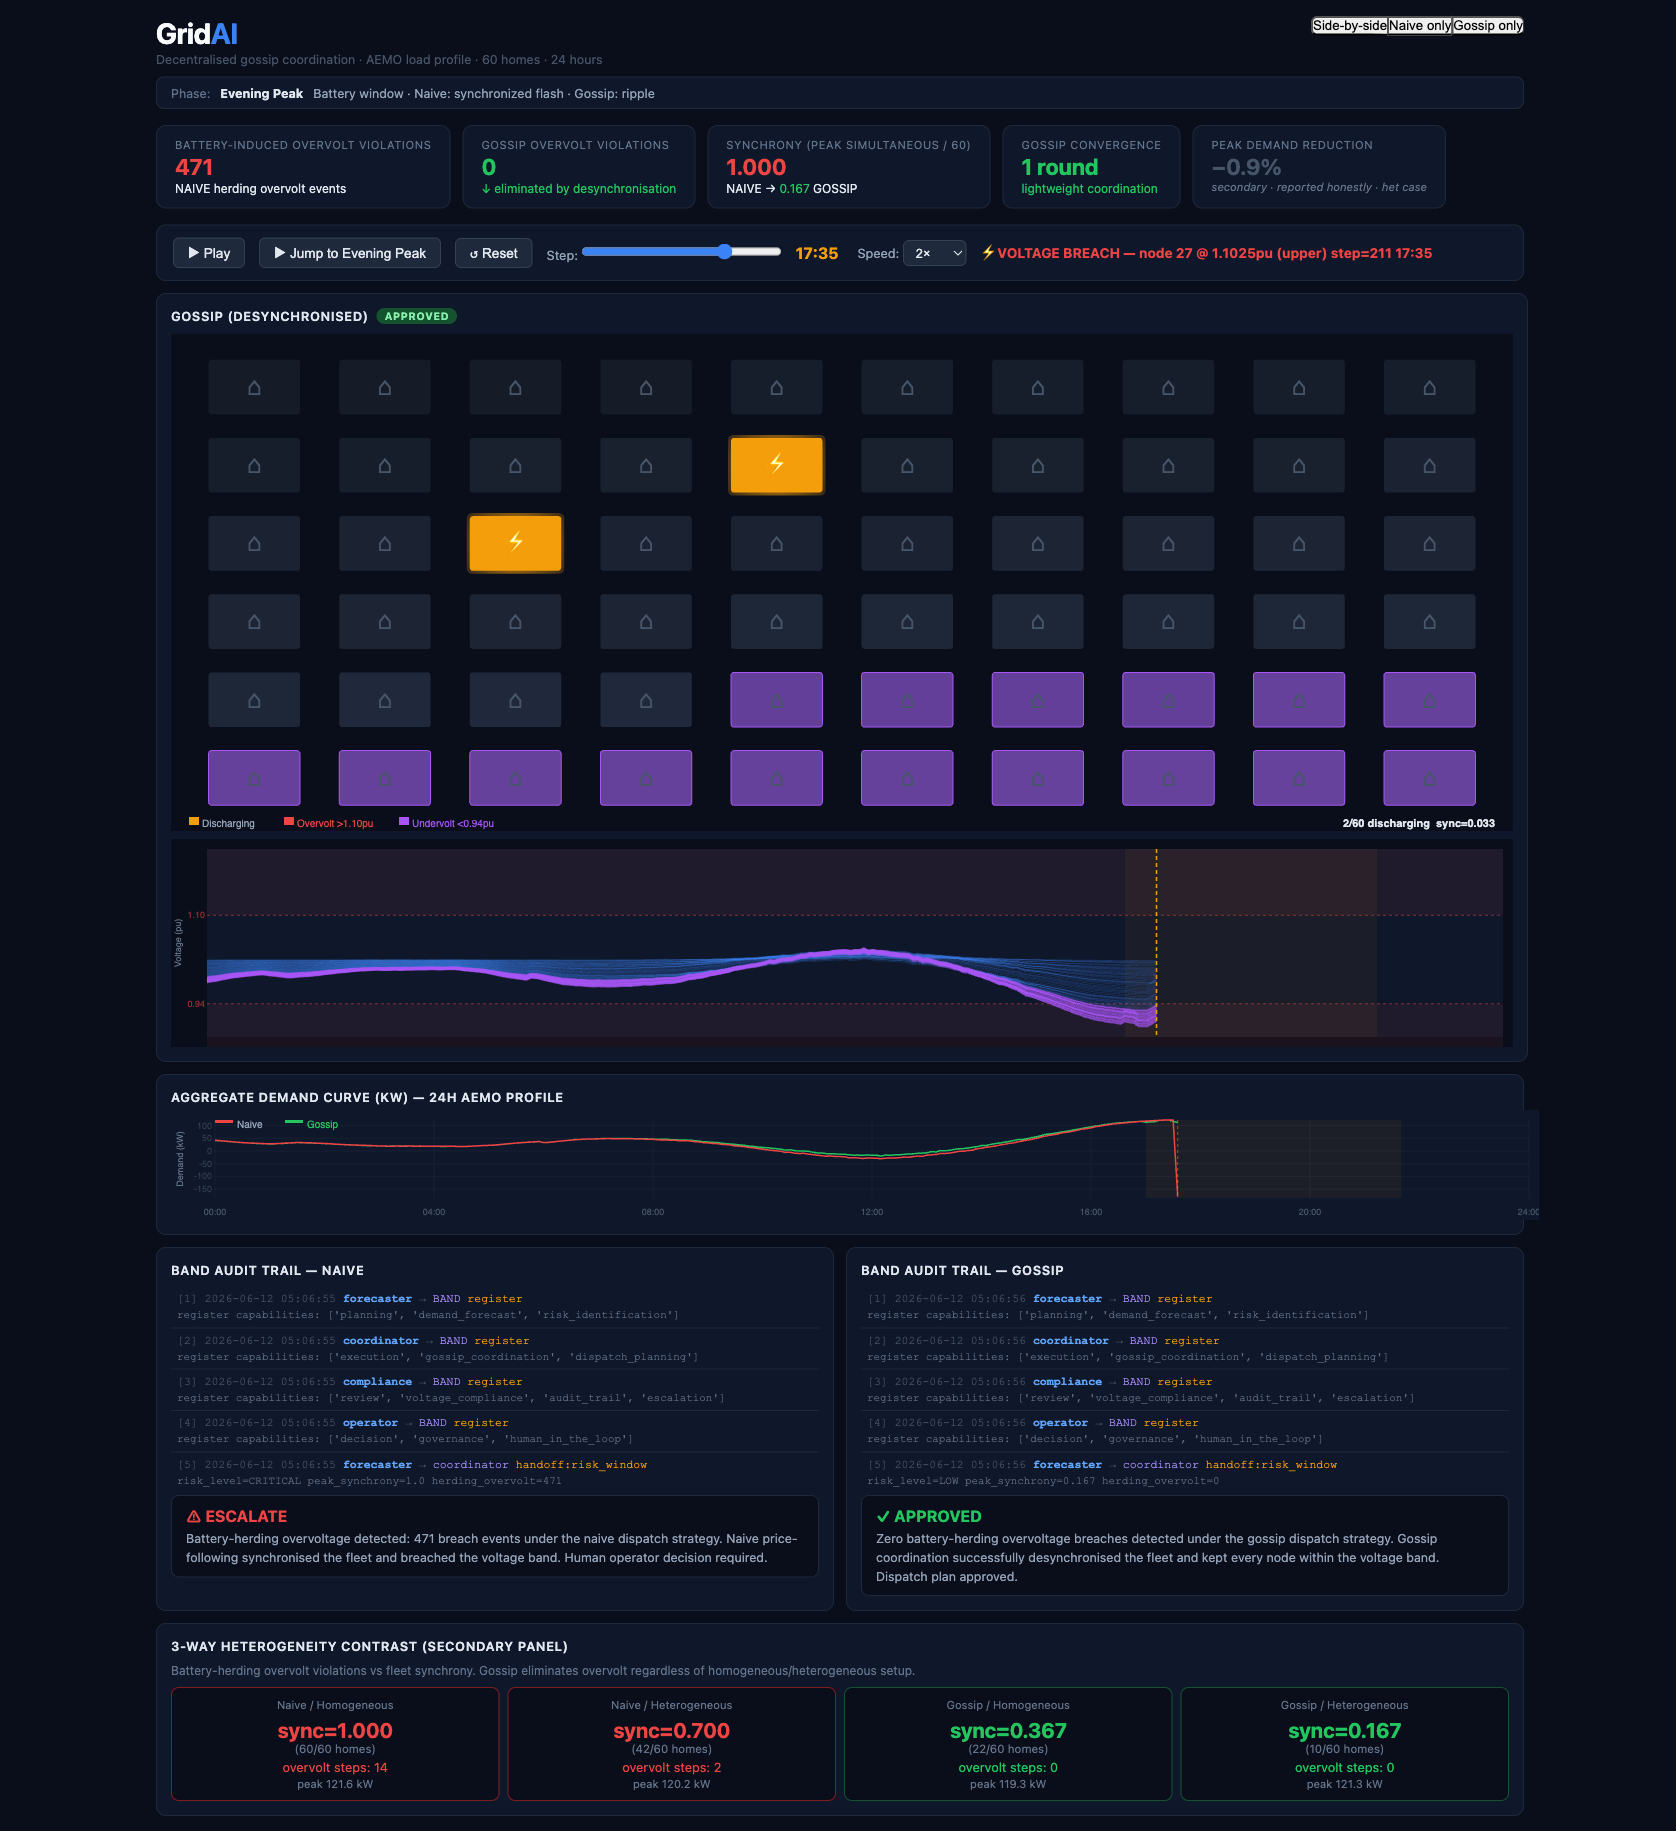
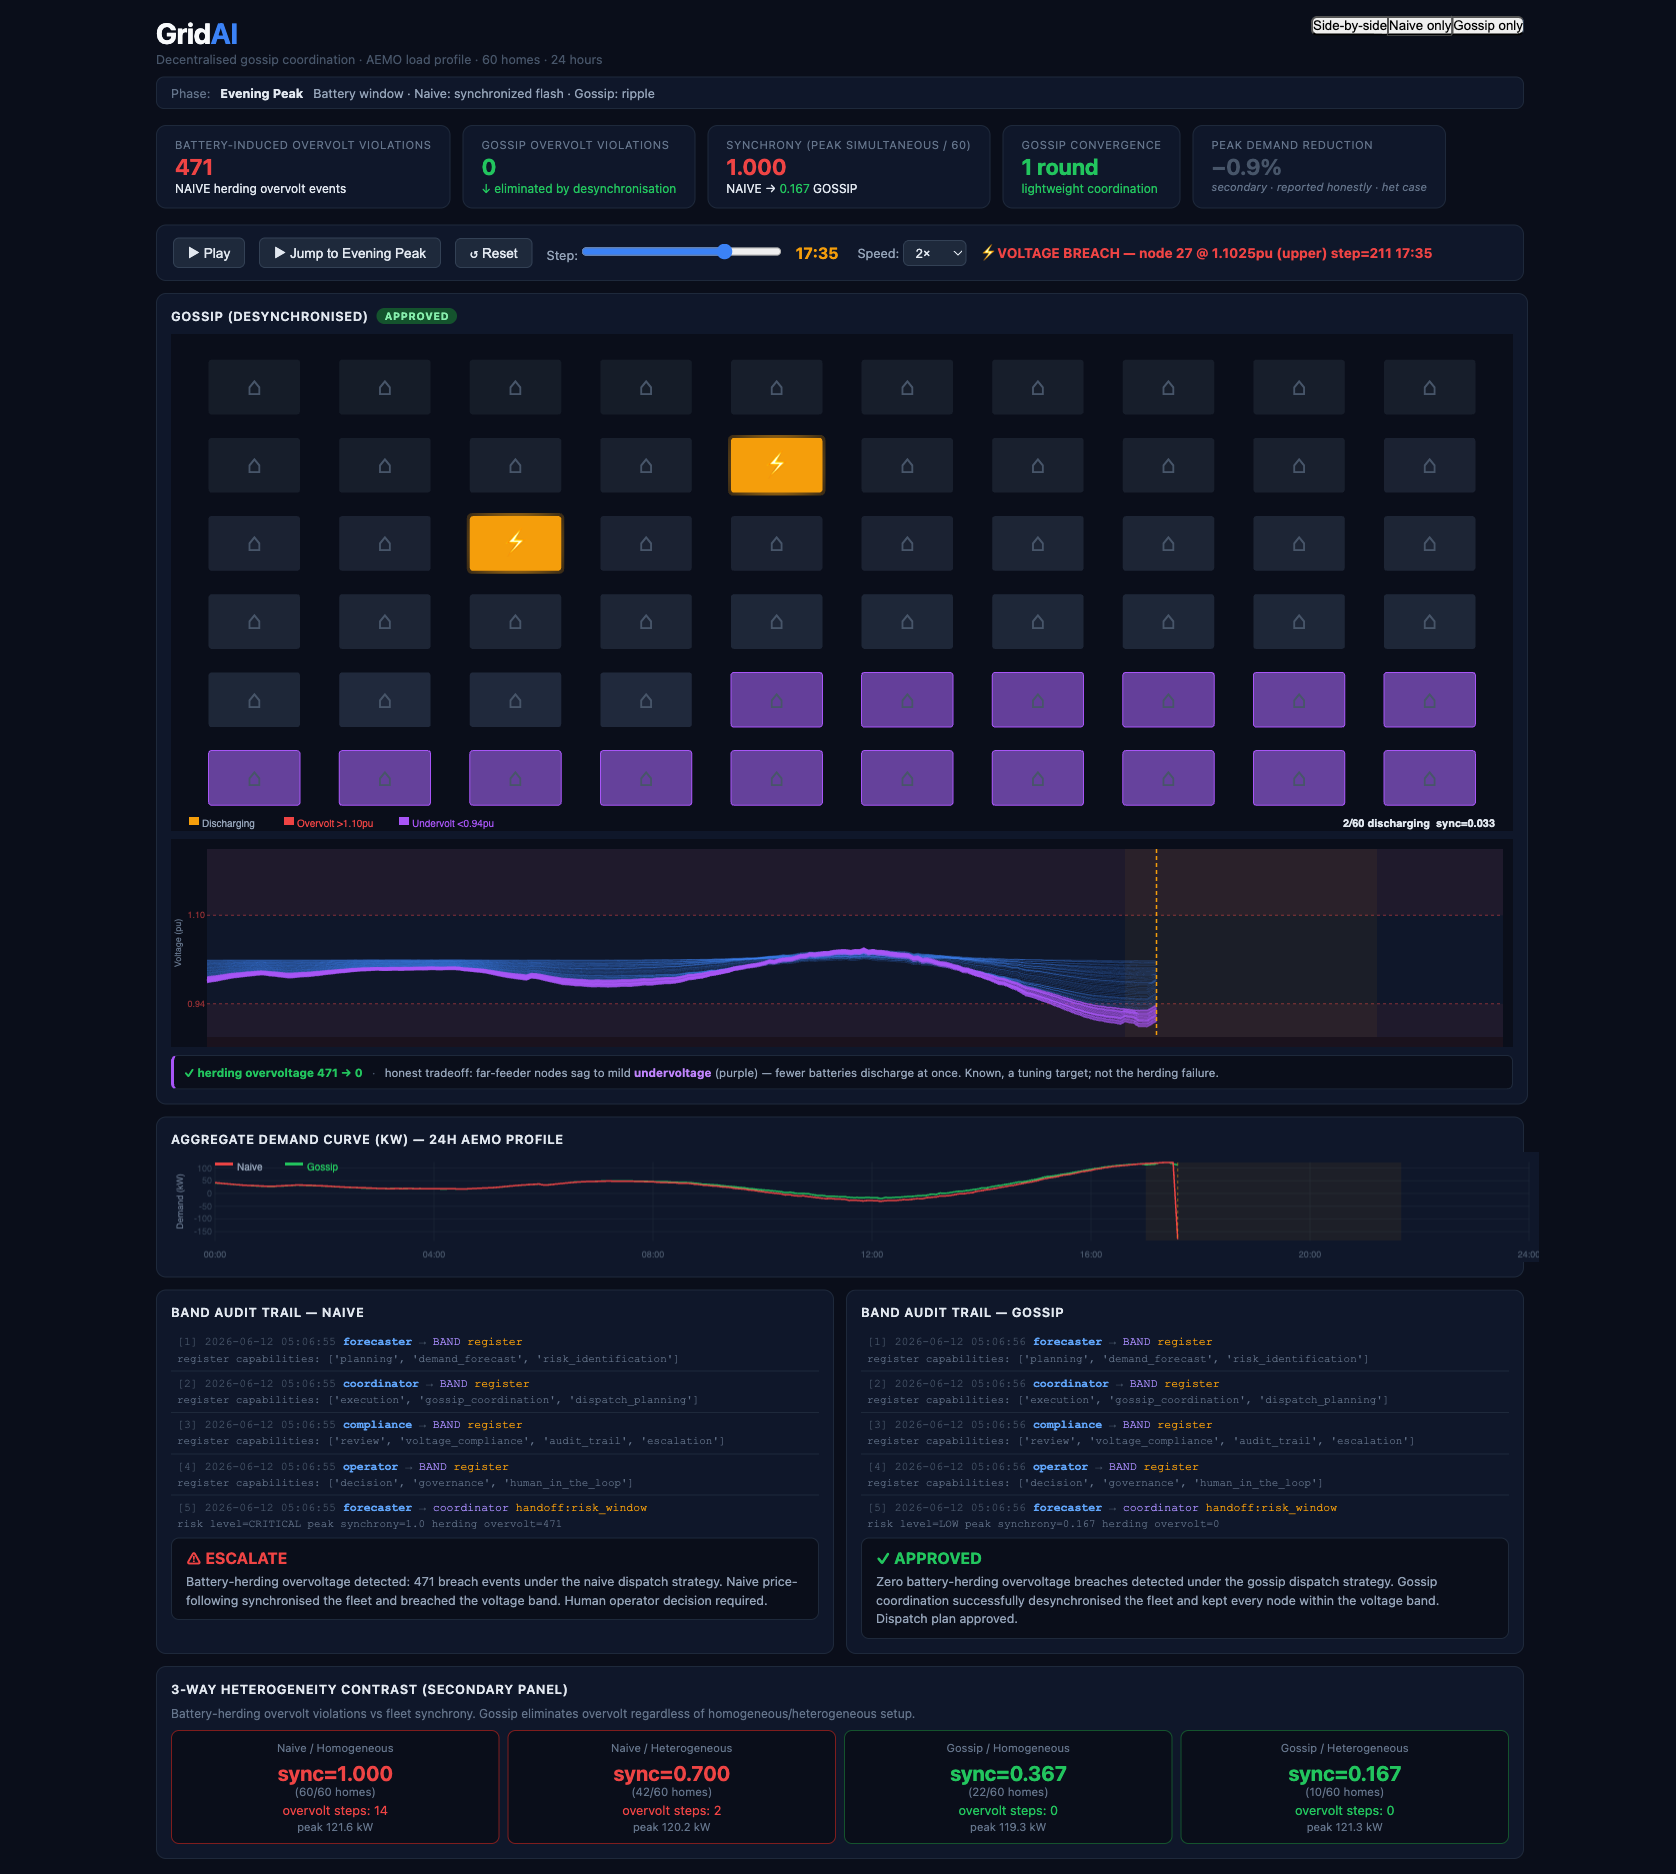
Day 4: add honest undervoltage-tradeoff annotation to gossip view
Per review decision: gossip's winning frame shows real undervoltage (purple) at
far-feeder nodes. Added an explicit on-screen note on the gossip panel — green
'herding overvoltage 471 -> 0' plus an honest caption that far nodes sag to mild
undervoltage (known desync tradeoff / tuning target, not the herding failure), so a
fast viewer can't misread purple as the same failure as naive's overvoltage breaches.
Regenerated viz/gridai_demo.html; refreshed gossip screenshot.

diff --git a/viz/gridai_demo.html b/viz/gridai_demo.html
@@ -66,6 +66,14 @@ canvas { display: block; }
 .audit-entry.approved { border-left: 3px solid #22c55e; background: rgba(34,197,94,0.05); }
 .audit-entry.operator { border-left: 3px solid #f59e0b; background: rgba(245,158,11,0.05); }
 
+/* Honest undervoltage tradeoff note on the gossip panel */
+.tradeoff-note { margin-top: 8px; padding: 8px 10px; background: #0a0e1a; border: 1px solid #1e293b;
+  border-left: 3px solid #a855f7; border-radius: 6px; font-size: 0.72rem; line-height: 1.45; }
+.tradeoff-win { color: #22c55e; font-weight: 700; }
+.tradeoff-sep { color: #475569; margin: 0 6px; }
+.tradeoff-cost { color: #94a3b8; }
+.tradeoff-cost b { color: #c084fc; }
+
 /* 3-way panel */
 .threeway-panel { background: #0f172a; border: 1px solid #1e293b; border-radius: 10px; padding: 14px; margin-top: 12px; }
 .threeway-grid { display: grid; grid-template-columns: repeat(4, 1fr); gap: 8px; margin-top: 10px; }
@@ -191,6 +199,12 @@ canvas { display: block; }
       </div>
       <canvas id="gossipGrid" width="640" height="240"></canvas>
       <canvas id="gossipVoltage" width="640" height="100" style="margin-top:8px;"></canvas>
+      <div class="tradeoff-note">
+        <span class="tradeoff-win">&#10003; herding overvoltage 471 &rarr; 0</span>
+        <span class="tradeoff-sep">&middot;</span>
+        <span class="tradeoff-cost">honest tradeoff: far-feeder nodes sag to mild
+        <b>undervoltage</b> (purple) &mdash; fewer batteries discharge at once. Known, a tuning target; not the herding failure.</span>
+      </div>
     </div>
   </div>
 

diff --git a/viz/build_demo.py b/viz/build_demo.py
@@ -302,6 +302,14 @@ canvas { display: block; }
 .audit-entry.approved { border-left: 3px solid #22c55e; background: rgba(34,197,94,0.05); }
 .audit-entry.operator { border-left: 3px solid #f59e0b; background: rgba(245,158,11,0.05); }
 
+/* Honest undervoltage tradeoff note on the gossip panel */
+.tradeoff-note { margin-top: 8px; padding: 8px 10px; background: #0a0e1a; border: 1px solid #1e293b;
+  border-left: 3px solid #a855f7; border-radius: 6px; font-size: 0.72rem; line-height: 1.45; }
+.tradeoff-win { color: #22c55e; font-weight: 700; }
+.tradeoff-sep { color: #475569; margin: 0 6px; }
+.tradeoff-cost { color: #94a3b8; }
+.tradeoff-cost b { color: #c084fc; }
+
 /* 3-way panel */
 .threeway-panel { background: #0f172a; border: 1px solid #1e293b; border-radius: 10px; padding: 14px; margin-top: 12px; }
 .threeway-grid { display: grid; grid-template-columns: repeat(4, 1fr); gap: 8px; margin-top: 10px; }
@@ -427,6 +435,12 @@ canvas { display: block; }
       </div>
       <canvas id="gossipGrid" width="640" height="240"></canvas>
       <canvas id="gossipVoltage" width="640" height="100" style="margin-top:8px;"></canvas>
+      <div class="tradeoff-note">
+        <span class="tradeoff-win">&#10003; herding overvoltage 471 &rarr; 0</span>
+        <span class="tradeoff-sep">&middot;</span>
+        <span class="tradeoff-cost">honest tradeoff: far-feeder nodes sag to mild
+        <b>undervoltage</b> (purple) &mdash; fewer batteries discharge at once. Known, a tuning target; not the herding failure.</span>
+      </div>
     </div>
   </div>
 

diff --git a/SESSION_STATE.md b/SESSION_STATE.md
@@ -22,8 +22,9 @@
 - HONEST framing note: at the evening peak the gossip grid shows undervoltage (purple) at far-feeder
   nodes (16 nodes @ step 211; 435 battery_herding UNDERvolt events total) — the documented tradeoff
   of desynchronisation. The headline metric is scoped to OVERvoltage herding (471→0) and the legend
-  distinguishes purple from red, so nothing is inflated. (Open question flagged to user: whether to
-  add an explicit on-screen annotation so the purple isn't misread as the same failure as naive's.)
+  distinguishes purple from red, so nothing is inflated. RESOLVED (user decision): added an explicit
+  honest on-screen annotation under the gossip grid — "herding overvoltage 471 -> 0" plus a note that
+  far-feeder nodes sag to mild undervoltage (a known desync tradeoff, a tuning target, not the herding failure).
 - sim/ and agents/ NOT modified (no new output fields were needed). Tests still 82 (unchanged).
 
 ## DONE (verified)